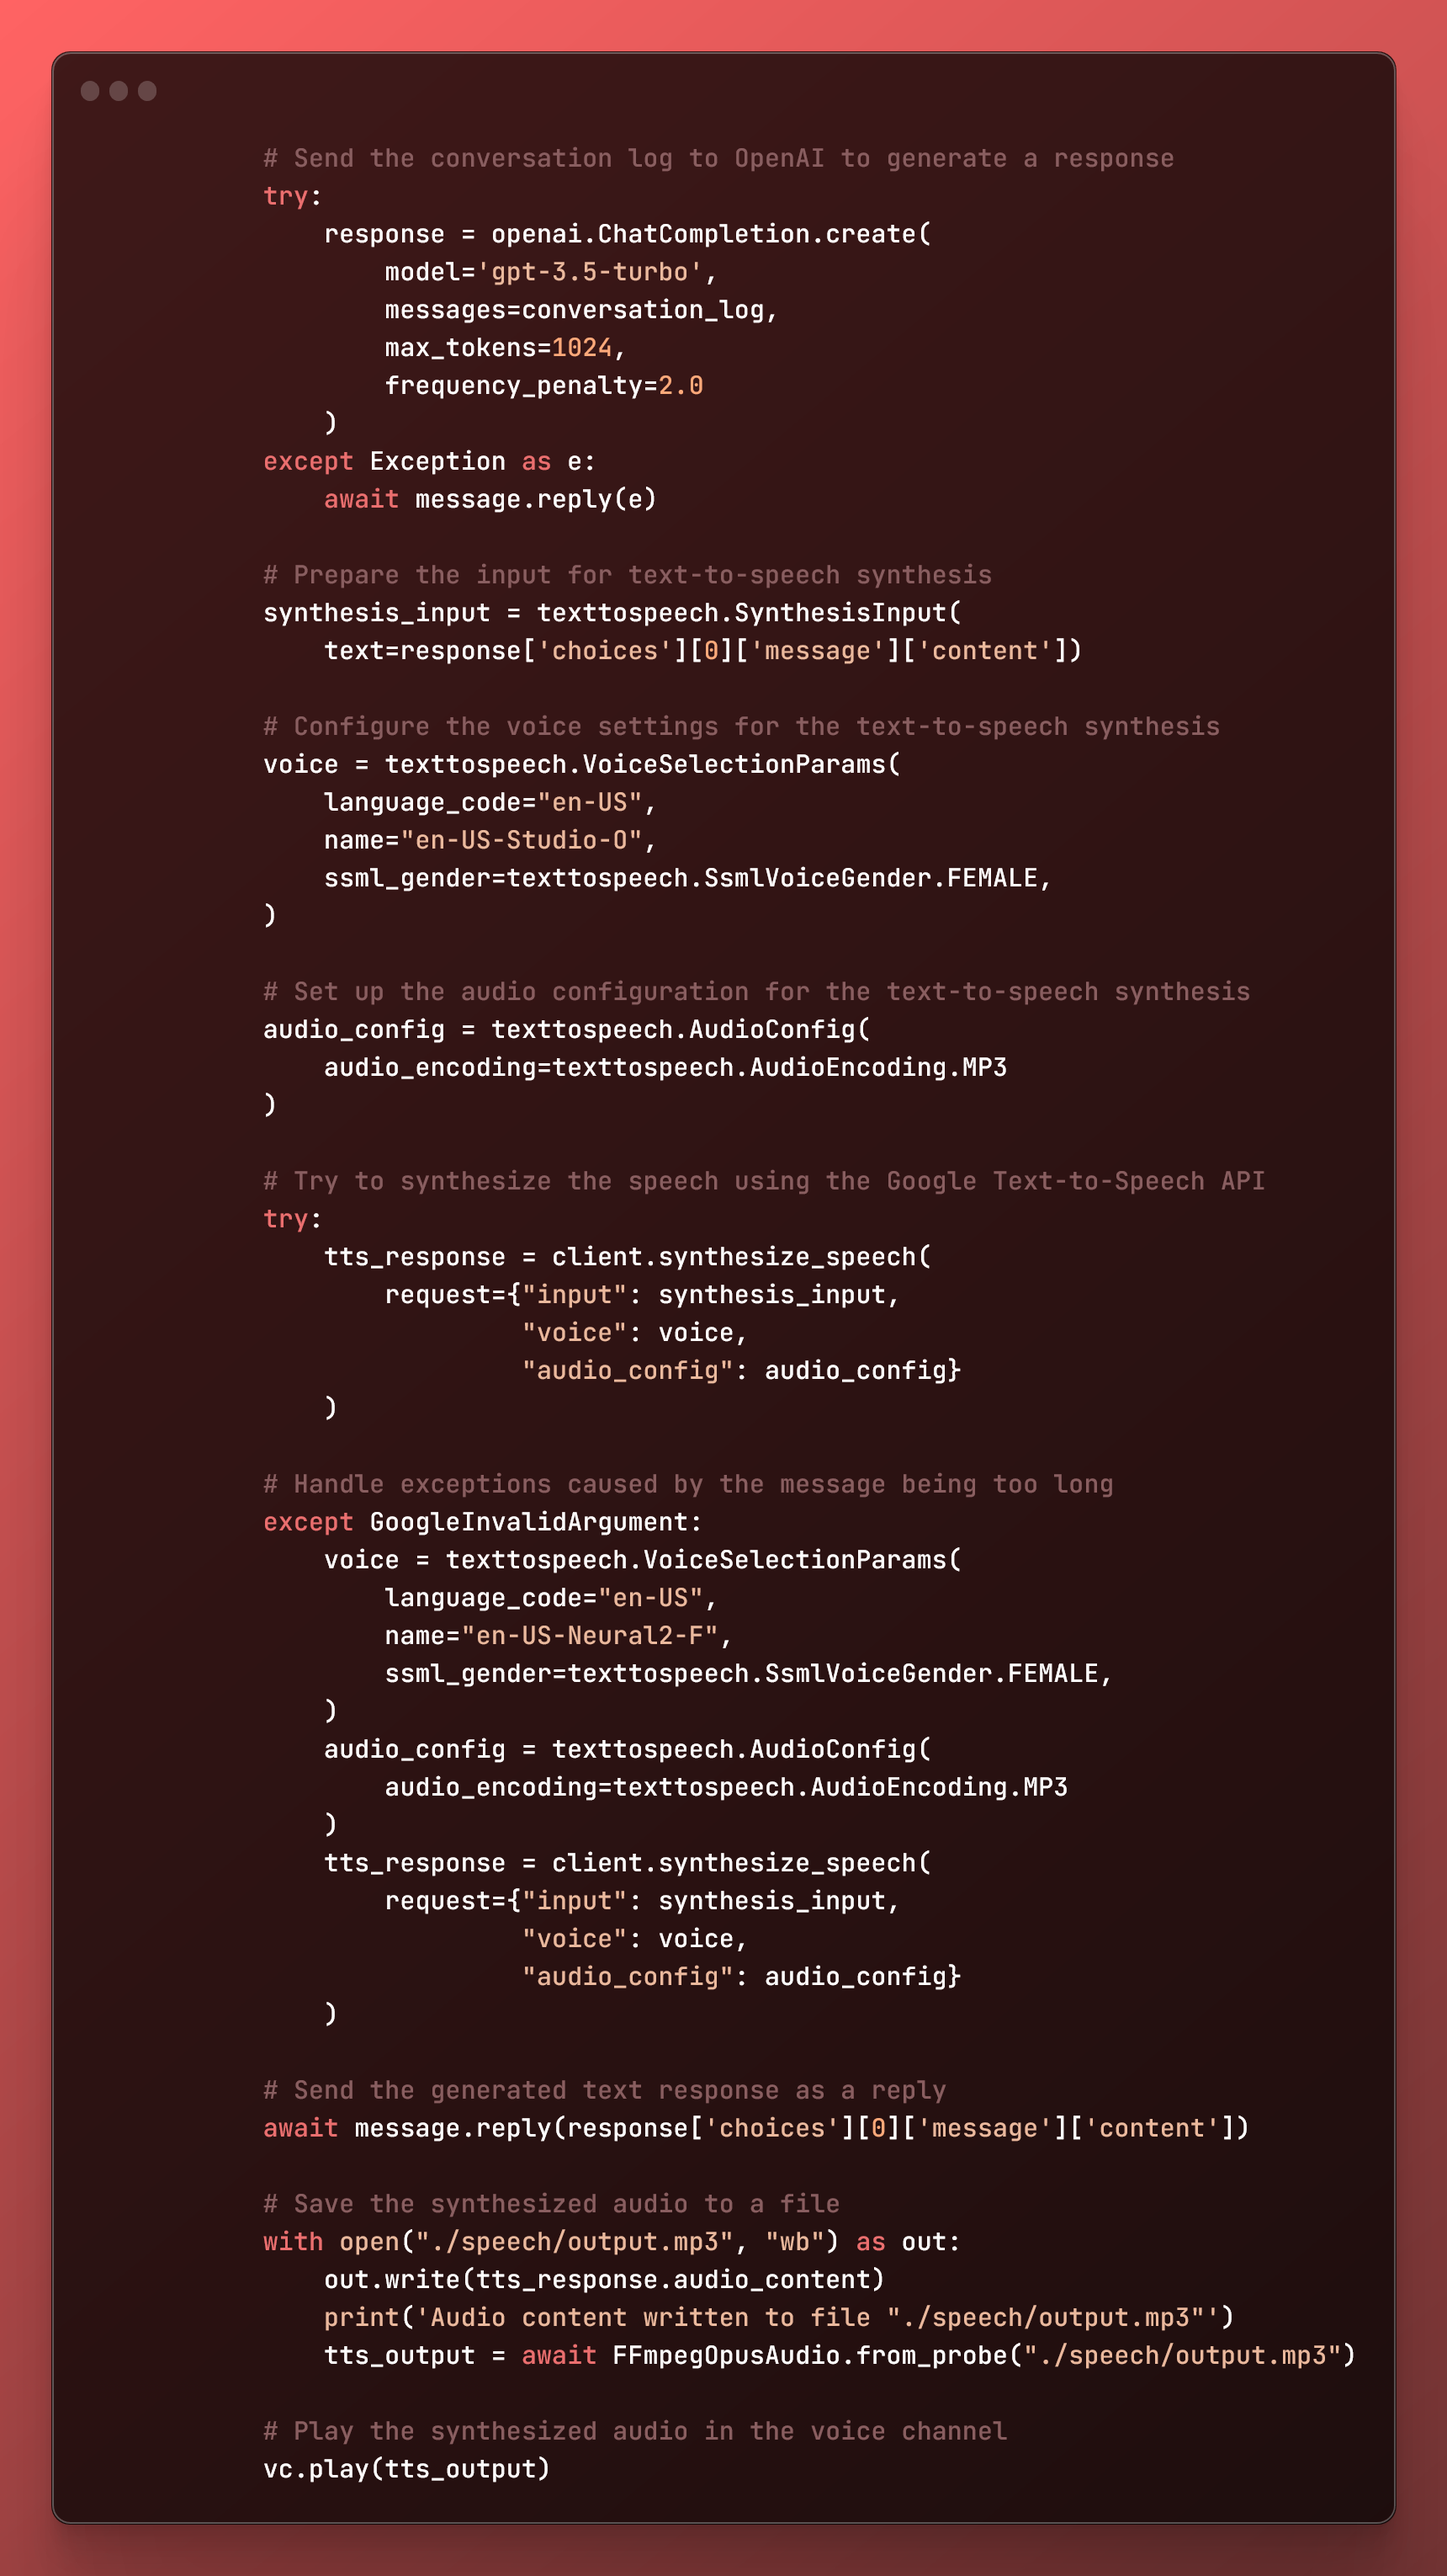
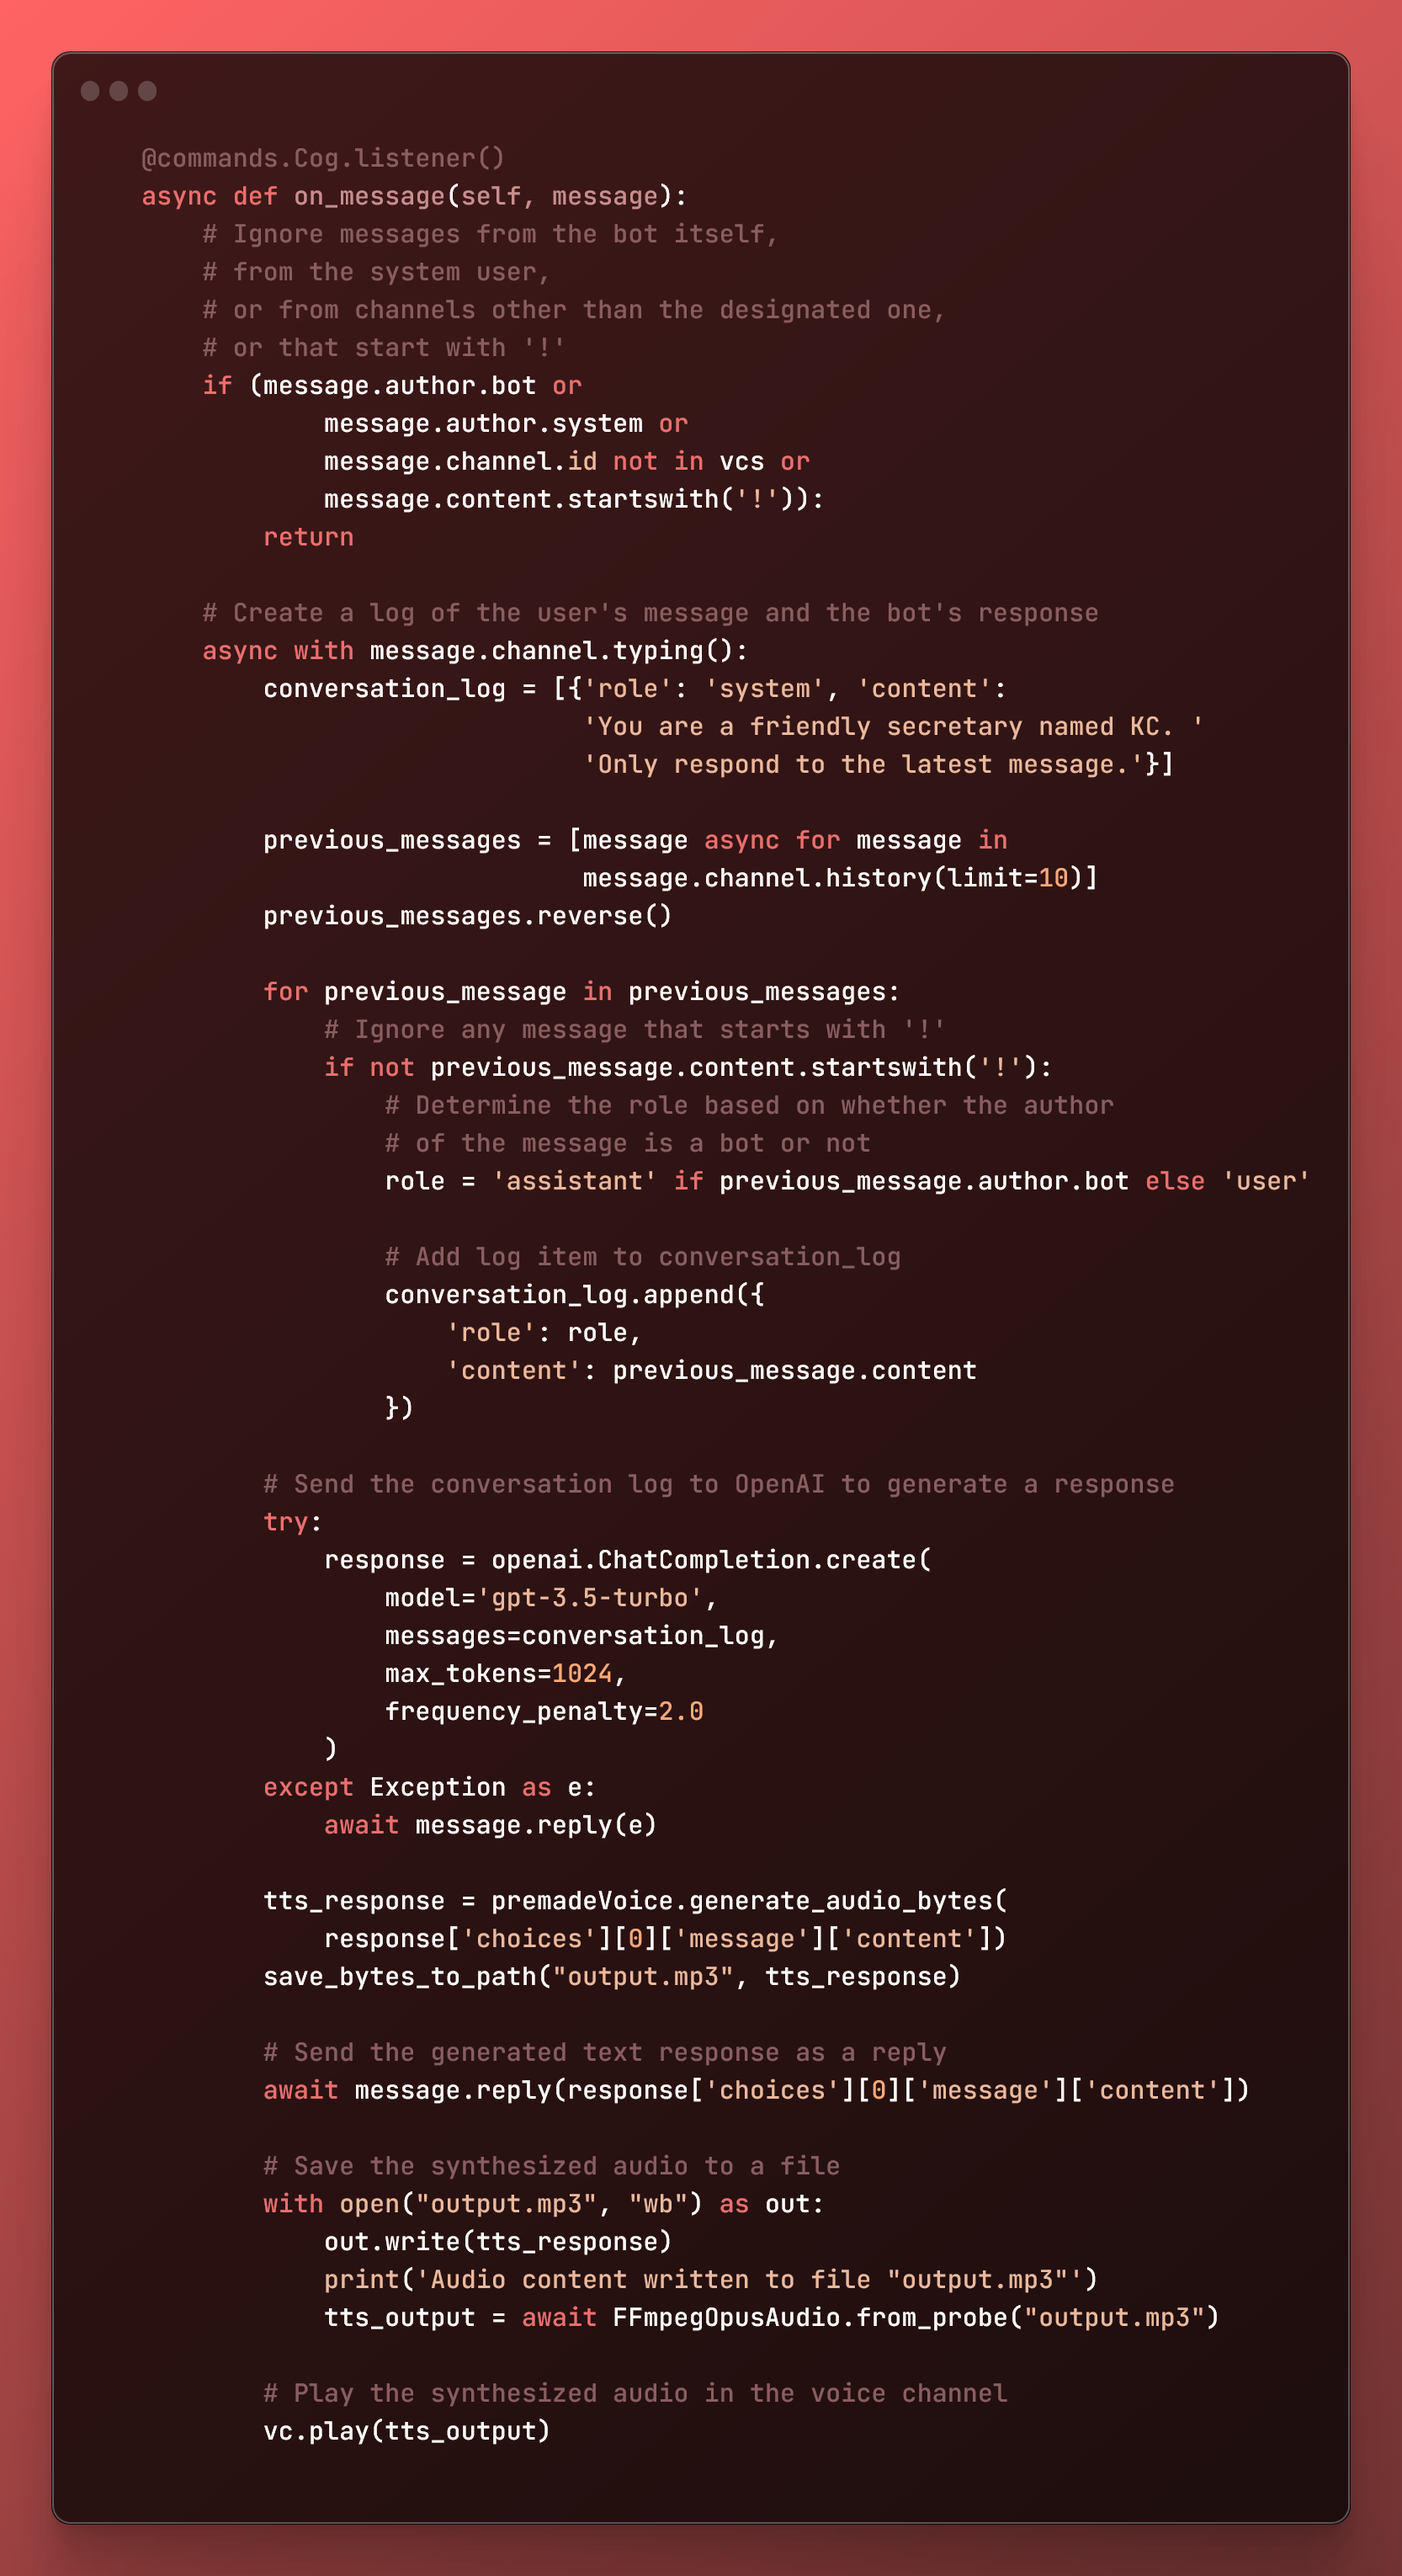
Relationship with Google Cloud ended, ElevenLabs new best friend

diff --git a/README.md b/README.md
@@ -3,7 +3,7 @@
 ![discord.py](https://img.shields.io/badge/discord.py-2.2.2-blue)
 ![openai](https://img.shields.io/badge/OpenAI-0.27.4-blue)
 ![stability-sdk](https://img.shields.io/badge/stability--sdk-0.5.0-blue)
-![google-cloud-texttospeech](https://img.shields.io/badge/google--cloud--texttospeech-2.14.1-blue)
+![elevenlabslib](https://img.shields.io/badge/elevenlabslib-0.4.2-blue)
 ![youtube-dl](https://img.shields.io/badge/youtube--dl-master-blue)
 
 ## Table of Contents
@@ -26,7 +26,7 @@
 - ### Engages in text-to-text conversations using OpenAI's GPT-3.5 Turbo, retaining the last 10 messages in the channel
 ![](./images/ttt-generation.png)
 
-- ### Generates text-to-speech audio from text-to-text conversations using the Google Cloud Text-to-Speech API
+- ### Generates text-to-speech audio from text-to-text conversations using the ElevenLabs API
 ![](./images/tts-generation.png)
 
 - ### Generates images with Stability.AI's Stable Diffusion and OpenAI's Dall-E models
@@ -71,14 +71,14 @@ supervisor
 PyNaCl
 stability-sdk
 Pillow
-google-cloud-texttospeech
+elevenlabslib
 youtube-dl (from master branch!)
 ```
 
 ## Getting Started
 1. Clone the repository or download the source code.
 2. Install the required dependencies as listed in the Dependencies section.
-3. Obtain necessary API keys and tokens for OpenAI, Stability.AI, Google Cloud Text-to-Speech, and Discord.
+3. Obtain necessary API keys and tokens for OpenAI, Stability.AI, ElevenLabs, and Discord.
 4. Update the configuration files with the obtained keys and tokens.
 5. Follow the usage instructions below to run the bot.
 
